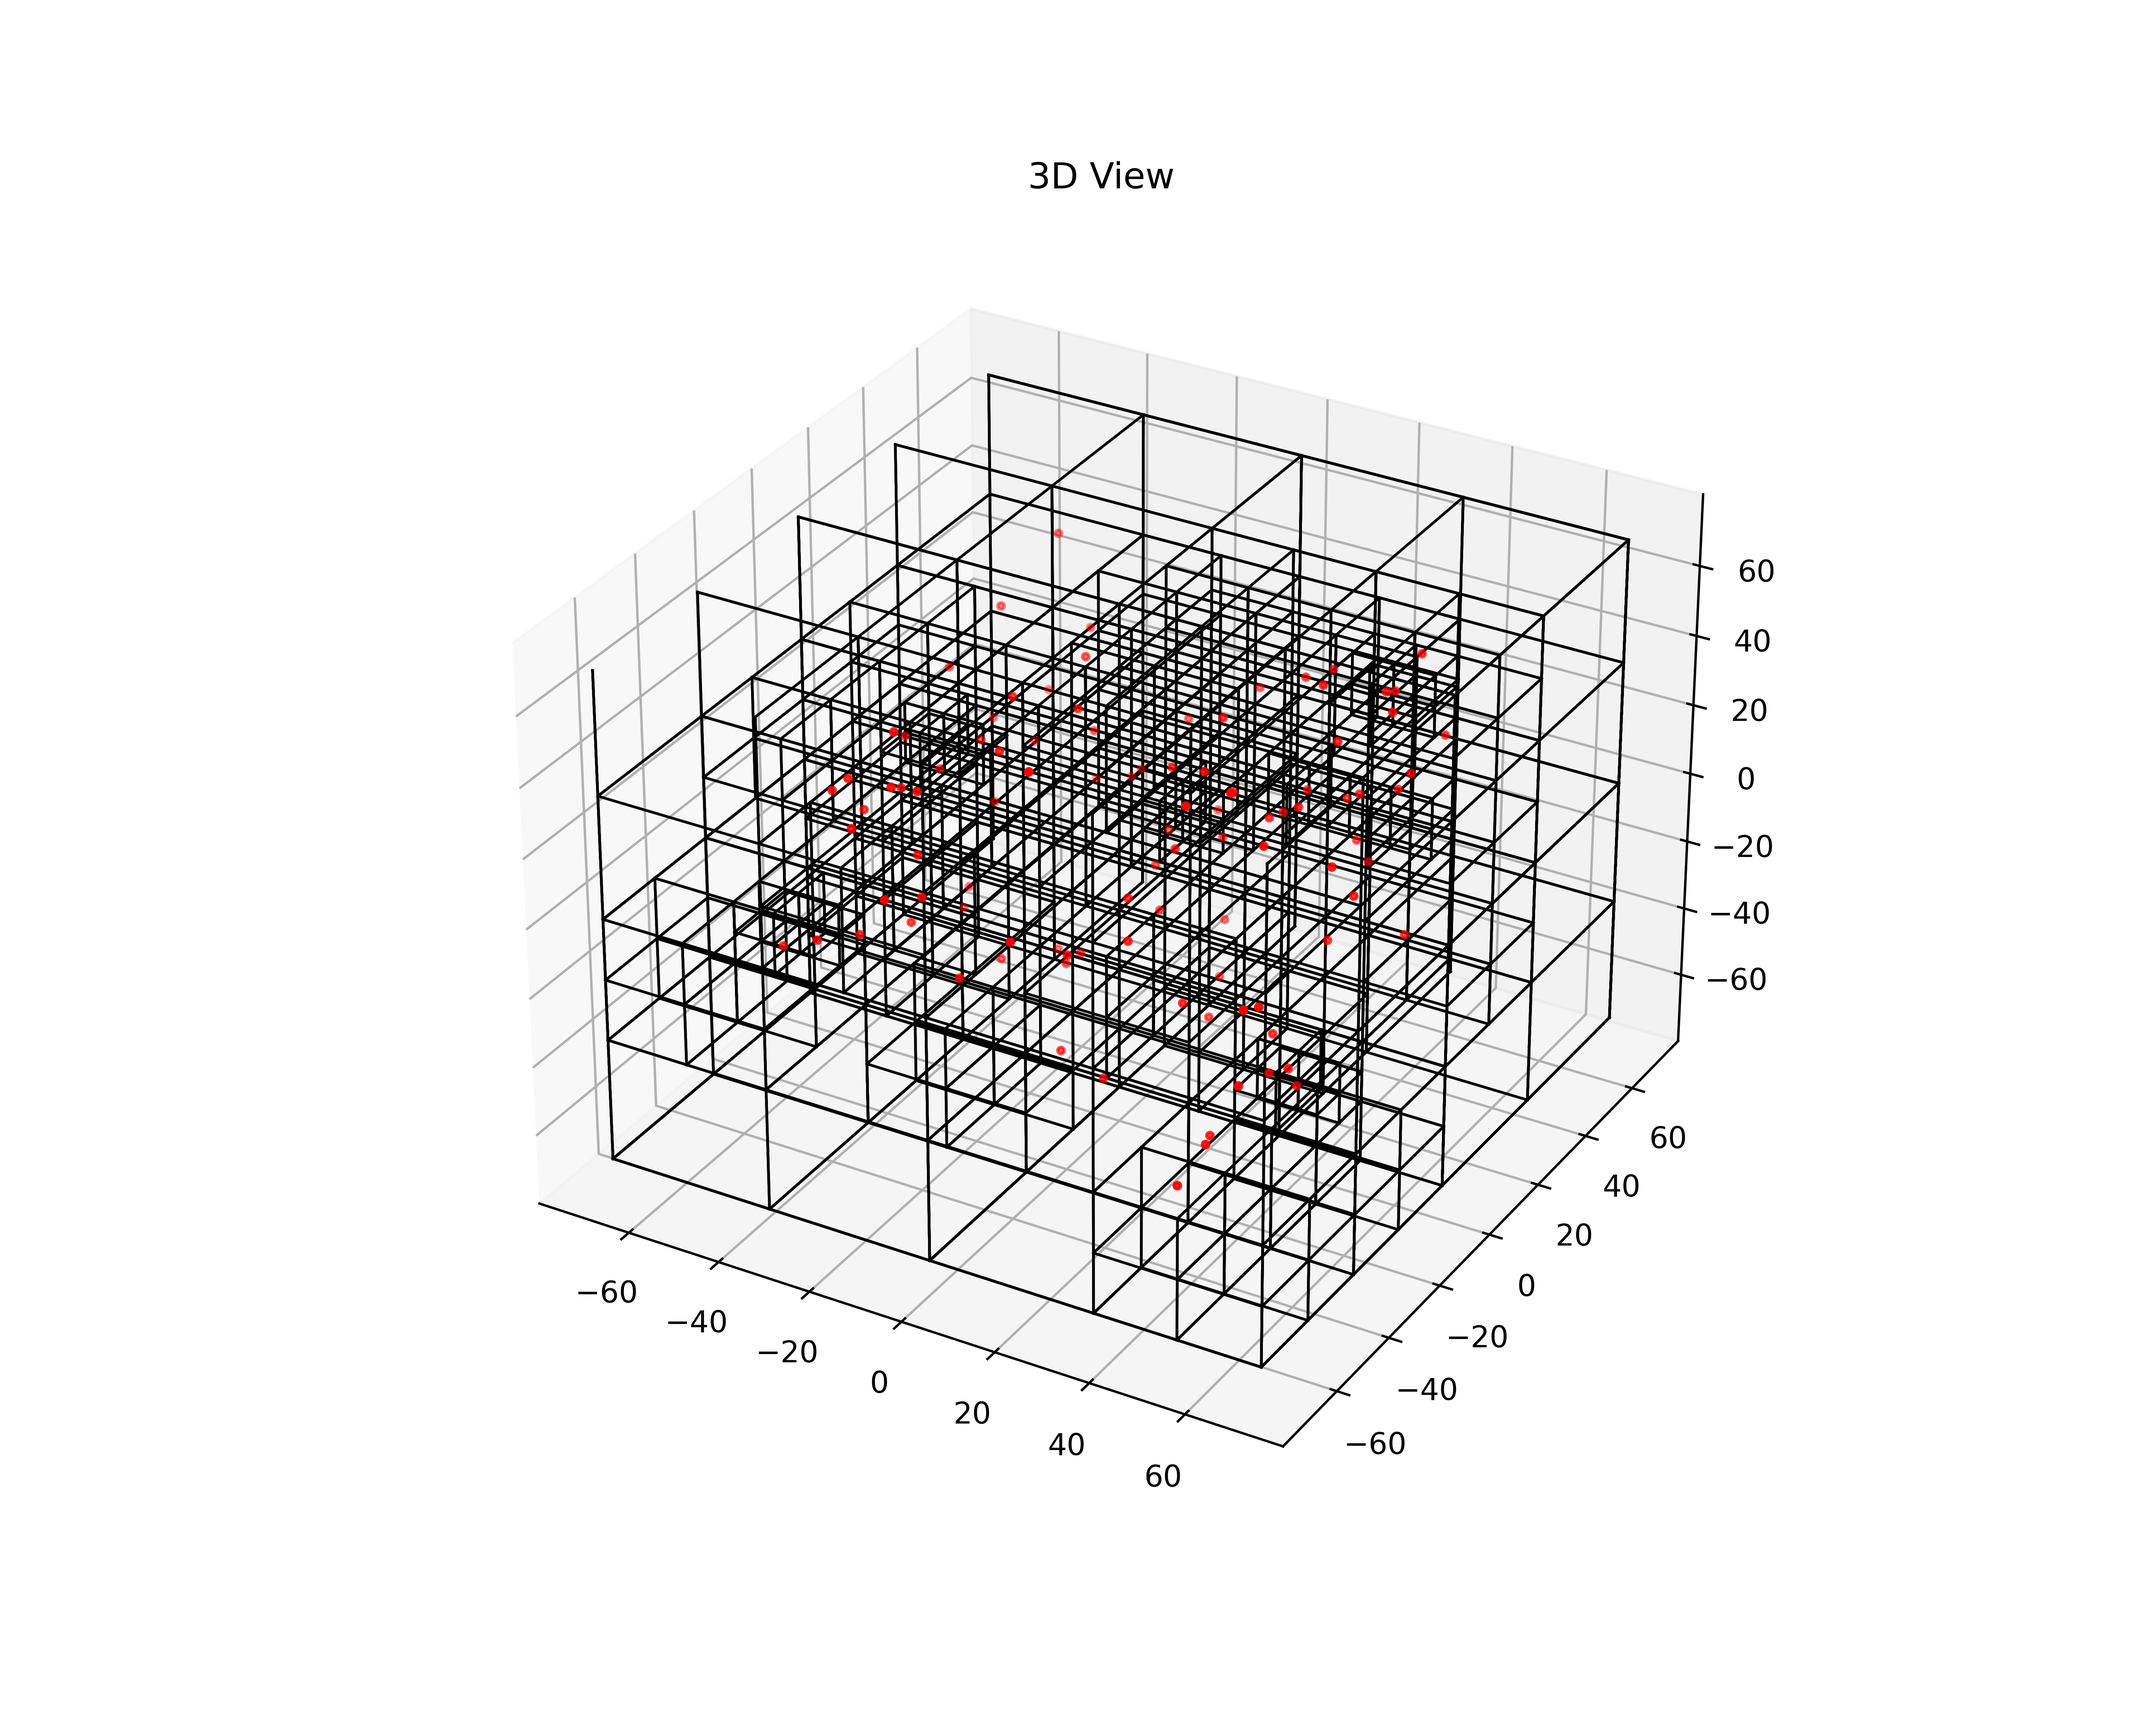
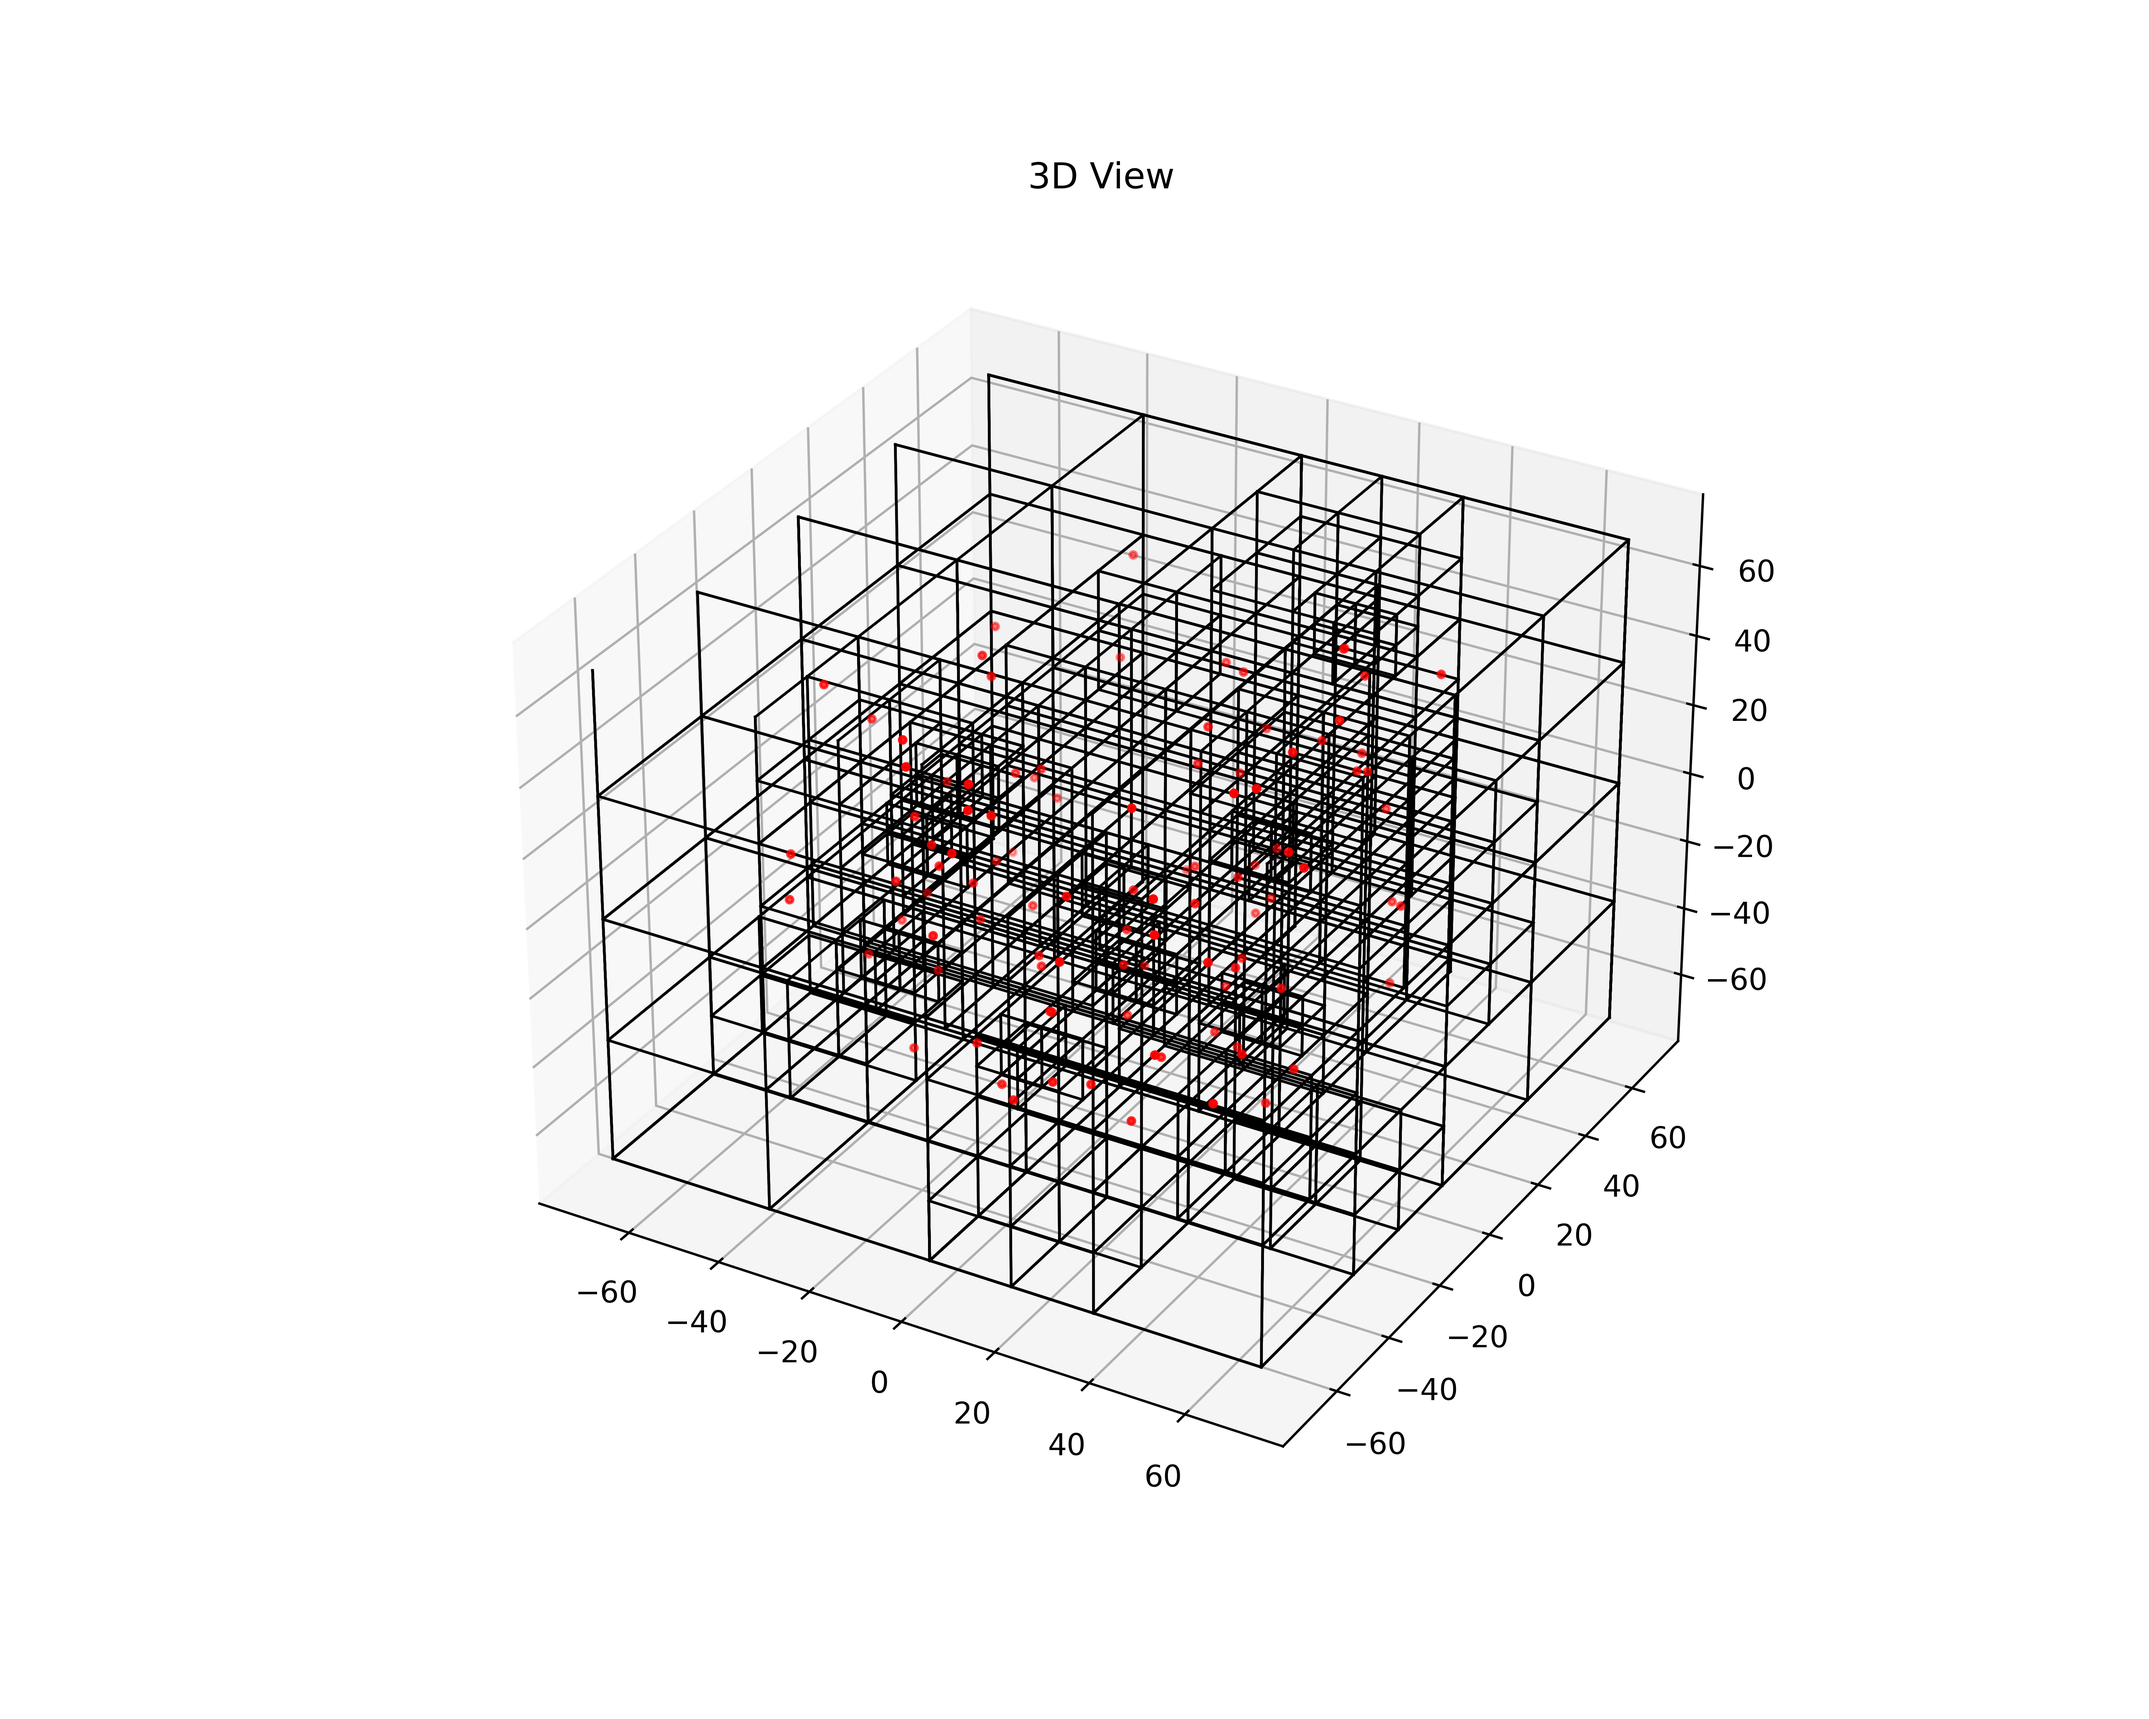
Tree algoritm

Changed region(s): [[0.2805, 0.2812, 0.7168, 0.75], [0.5298, 0.7188, 0.6233, 0.75]]

diff --git a/BH/Tree.c b/BH/Tree.c
@@ -5,7 +5,7 @@
 #include <math.h>
 #include <time.h>
 
-const int N = 10;
+const int N = 100;
 const double theta = 0.5;
 //const double M_PI = 3.14159216;
 
@@ -37,7 +37,6 @@ Node* createChildNodeForOctant(Node* node, int octantIndex);
 
 int OctantIndex(Node* node, body* bd);
 void Init_bd(body* bd, int N, double* min, double* max);
-void Init_bd2(body* bd, int N, double* center);
 
 void updateMassCenterOfMass(Node* nd, body* bd);
 void subdivideNode(Node* nd);
@@ -156,54 +155,6 @@ void Init_bd(body *bd, int N, double *min, double *max) {
 }
 
 
-void Init_bd2(body* bd, int N, double *center) {
-
-    double galaxy_radius = 50.0;
-    double disk_thickness = 1.5;
-    double galaxy_mass = N; 
-
-    for (int ii = 0; ii < N; ++ii) {
-        bd[ii].r = (double *)malloc(3 * sizeof(double));
-        bd[ii].v = (double *)malloc(3 * sizeof(double));
-        bd[ii].a = (double *)malloc(3 * sizeof(double));
-        bd[ii].m = (double *)malloc(sizeof(double));
-
-        if (bd[ii].r == NULL || bd[ii].v == NULL || bd[ii].a == NULL || bd[ii].m == NULL) {
-            fprintf(stderr, "Error Allocation Memory Init_bd2\n");
-            exit(EXIT_FAILURE);
-        }
-    }
-
-    for (int ii = 0; ii < N; ii++) {
-        // Radial distribution
-
-        double radius = ((double)rand() / RAND_MAX) * galaxy_radius;
-        double theta = ((double)rand() / RAND_MAX) * 2 * 3.141592; // Ángulo aleatorio en radianes
-
-        // Height to disk
-        double height = ((double)rand() / RAND_MAX) * disk_thickness - disk_thickness / 2;
-
-        // coordinates
-        bd[ii].r[0] = center[0] + radius * cos(theta); // x
-        bd[ii].r[1] = center[1] + radius * sin(theta); // y
-        bd[ii].r[2] = center[2] + height;              // z
-
-        // initial velocity: orbital velocity in x-y plane
-        double orbital_velocity = sqrt((G * galaxy_mass) / radius); // Fórmula simplificada
-        bd[ii].v[0] = -orbital_velocity * sin(theta); // vx
-        bd[ii].v[1] = orbital_velocity * cos(theta);  // vy
-        bd[ii].v[2] = 0.0;                            // vz
-
-        bd[ii].a[0] = 0.0; 
-        bd[ii].a[1] = 0.0; 
-        bd[ii].a[2] = 0.0; 
-
-        // Mass
-        *bd[ii].m = 1.0; // Asumiendo que cada cuerpo tiene una masa unitaria
-    }
-}
-
-
 void Insertbd(Node* node, body* bd) {
 
     // Empty Node
@@ -235,13 +186,15 @@ void Insertbd(Node* node, body* bd) {
 
 
 void updateMassCenterOfMass(Node* node, body* bd){
-    if (node->totalMass == 0){
+    if (*node->totalMass == 0){
         //Empty node
         node->centerOfMass[0] = bd->r[0]; 
         node->centerOfMass[1] = bd->r[1]; 
         node->centerOfMass[2] = bd->r[2]; 
     }
-    else { //Average CM
+    else { //Average CM  
+           //(cm * M * + r * m) / (M +m)
+
         node->centerOfMass[0] = (node->centerOfMass[0] * *node->totalMass + bd->r[0] * *bd->m) / (*node->totalMass + *bd->m);
         node->centerOfMass[1] = (node->centerOfMass[1] * *node->totalMass + bd->r[1] * *bd->m) / (*node->totalMass + *bd->m);
         node->centerOfMass[2] = (node->centerOfMass[2] * *node->totalMass + bd->r[2] * *bd->m) / (*node->totalMass + *bd->m);
